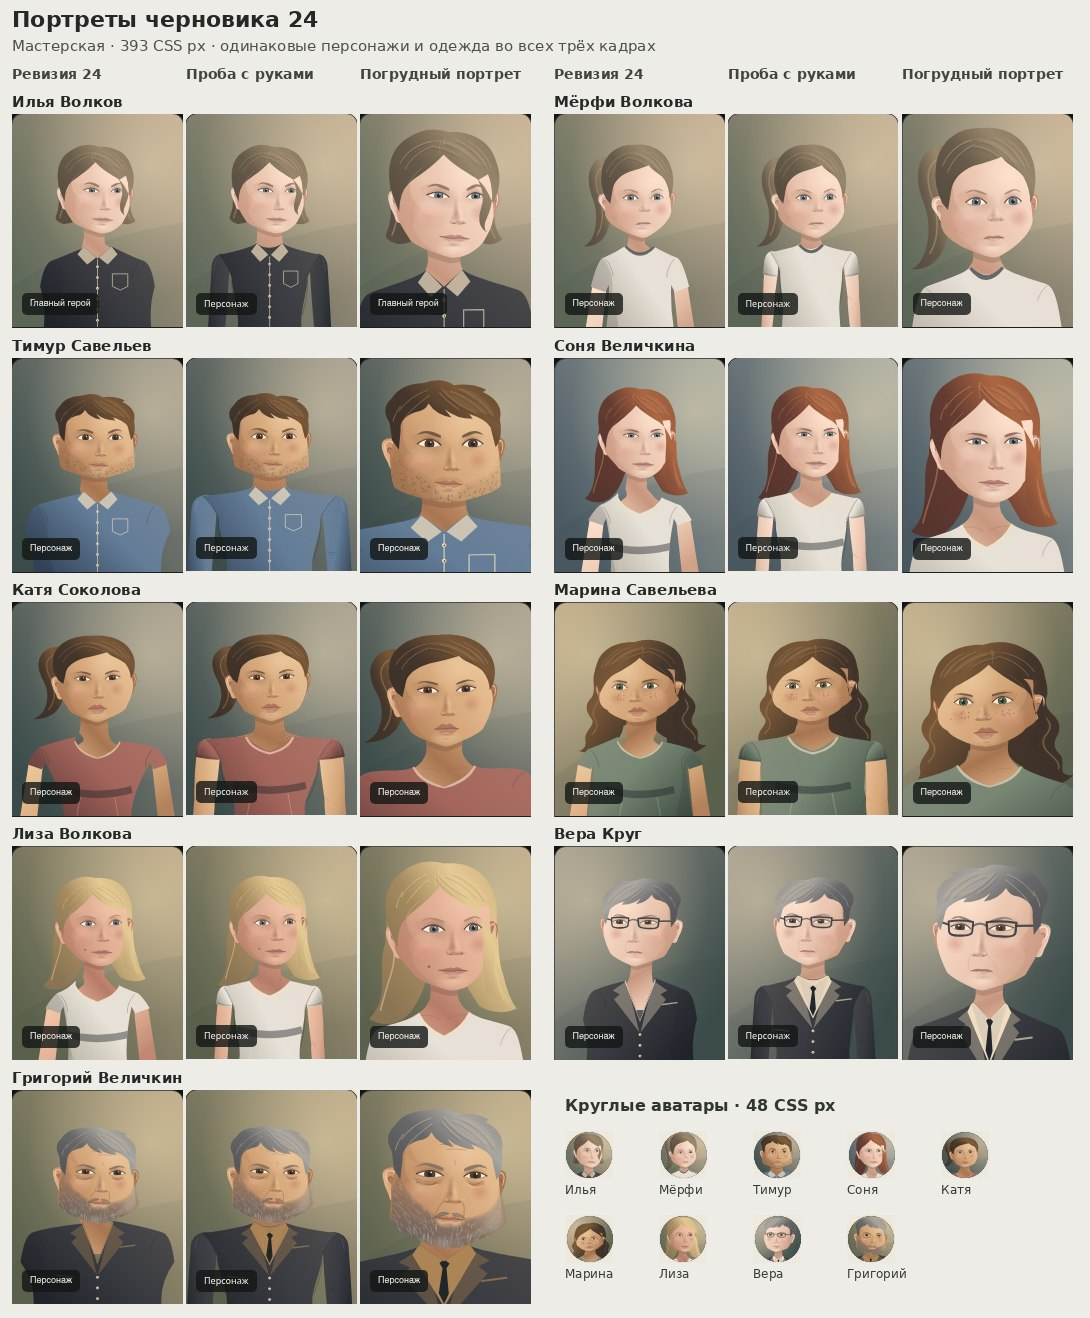
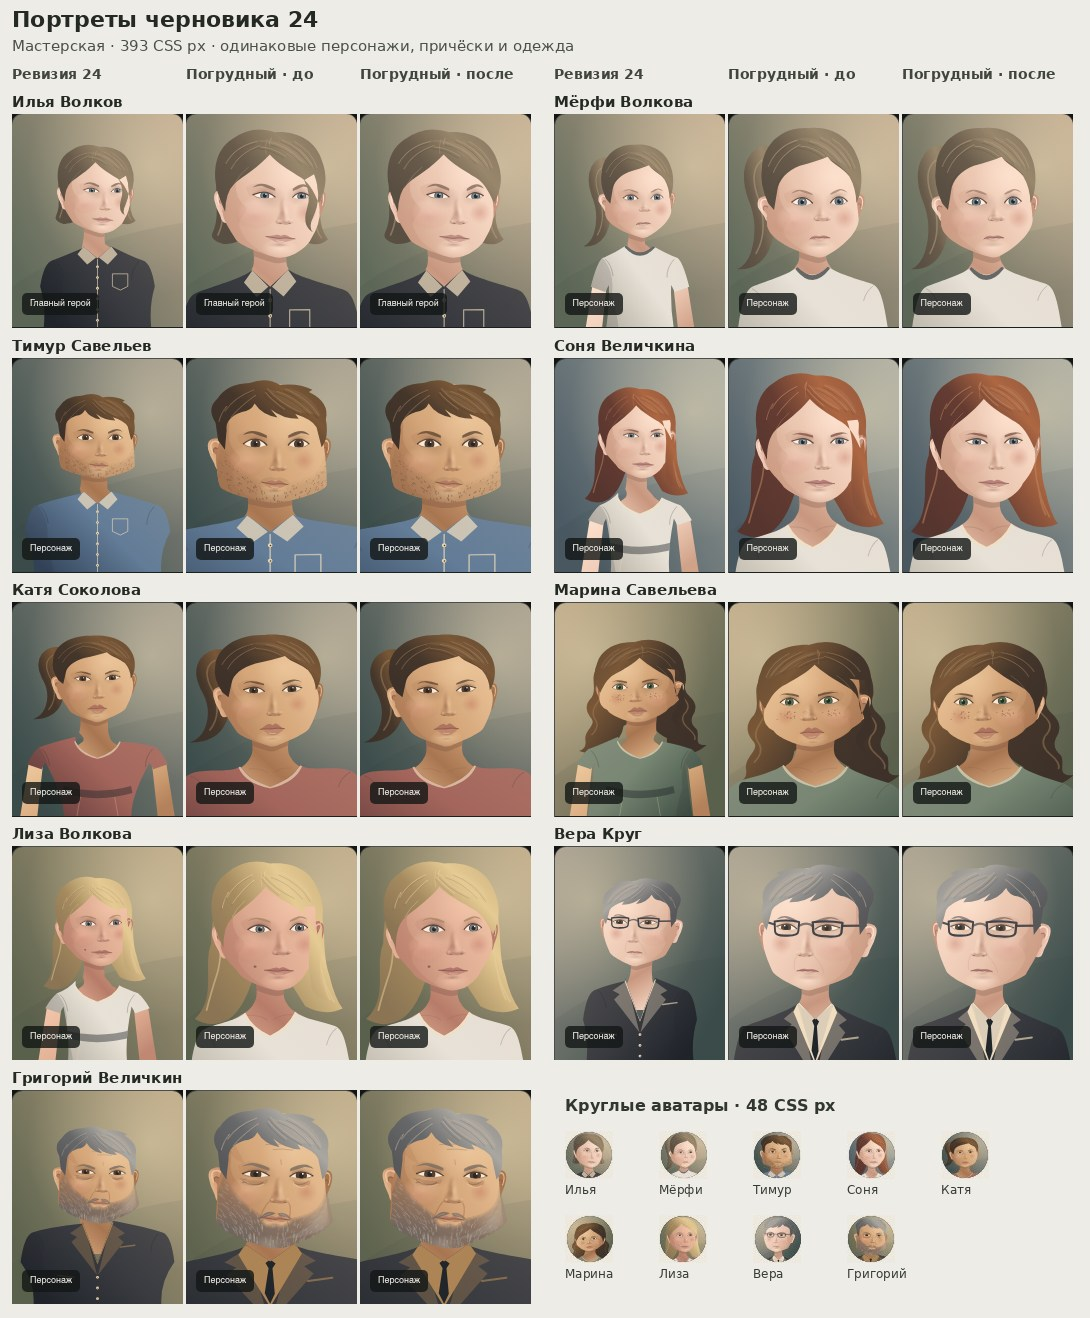
Fit fringe and side locks around the posed face and inspect complete mobile portraits

diff --git a/frontend/src/workshop/portraitFigureHair.ts b/frontend/src/workshop/portraitFigureHair.ts
@@ -178,6 +178,20 @@ const croppedCuts: Partial<Record<HairStyle, Partial<Cut>>> = {
  bun:{back:'M31-65Q49-90 72-79Q95-71 85-44Q78-27 54-32Z',backLines:'M49-70q17-12 28 3m-25 9q20-10 26 2'},
  curly:{front:'M-61 7Q-75 8-71-9Q-87-12-77-31Q-88-43-74-56Q-77-73-58-76Q-56-93-39-88Q-31-106-14-96Q-2-110 14-98Q33-108 44-95Q64-97 68-79Q87-78 80-61Q99-53 87-37Q94-19 76-14Q78 2 62 9Q57 18 52 11L50-4Q35-1 37-16Q22-13 20-26Q8-17 2-29Q-12-16-23-27Q-32-12-44-20Q-44-4-55-7Z'},
 };
+// The sweeping bob turns around the temple before descending. The stepped
+// sidelocks of the hime cut keep their blunt ends lateral to the eye sockets.
+// Keep the framing lengths of these styles between ear and cheek. Only
+// their crown and fringe sit in front of the face. The two contours meet at
+// the temple, so the visible cheek never becomes an island inside a lock.
+const templeFront:Partial<Record<HairStyle,string>>={
+  medium:curtains, long:curtains, wavy:curtains, bob:curtains, locs:curtains,
+  asym_bob:'M-63 9Q-76-6-70-46Q-66-82-35-92Q-6-105 24-91Q67-86 70-50Q75-23 60 0L53-13 49-36Q34-48 21-64C8-46-19-39-39-27Q-57-17-63 9Z',
+  blunt_long:'M-65 9Q-71-1-68-42Q-65-82-26-92Q4-101 33-89Q70-78 73-38Q74-14 62 11L55-25Q21-19 6-22L3-27 1-22Q-27-19-50-25Z',
+  hime:'M-64 9L-68-38Q-65-79-32-90Q0-102 26-91Q66-82 70-48Q75-18 61 12L52-25Q29-31 19-52Q4-32-19-30L-32-29-31-35Q-46-29-53-23Z',
+};
+// The side panels of these cuts fall in front of the ears. Shoulder-length
+// and loose long cuts already carry their entire side length in the rear mass.
+const sidePanels=new Set<HairStyle>(['bob','asym_bob','blunt_long','hime','locs']);
 // Extents of cuts that rise above or extend well outside the fitted skull,
 // in the same 61 × 87 reference space as the locks.
 const extent: Partial<Record<HairStyle, readonly [number,number]>> = {
@@ -196,6 +210,7 @@ export function figureHair(
   light: string,
   dark: string,
   fit?: {infant: boolean; part: number},
+  outerEye?: number,
 ) {
   const coated = style === 'ponytail' || style === 'braid' || style === 'bun';
   const parted =
@@ -207,18 +222,41 @@ export function figureHair(
       : '';
   if (fit?.infant && (style === 'buzz' || style === 'short')) {
     const wisps = 'M-40-61Q-32-80-13-83Q-17-89-10-92Q-9-85-2-83Q13-85 26-74 M-27-73q10-10 22-8m-9 5q12-3 23 3';
-    return {back:'',front:`<g transform="scale(${temple/61} ${-crown/87})">${line(wisps,dark,1.65,.62)}</g>`};
+    return {back:'',side:'',front:`<g transform="scale(${temple/61} ${-crown/87})">${line(wisps,dark,1.65,.62)}</g>`};
   }
-  const cut = fit ? {...cuts[style], ...croppedCuts[style]} : cuts[style],
-    wrap = (s: string) => `<g transform="scale(${(temple + 1) / 61} ${-crown / 87})">${s}</g>`;
+  const cut = fit ? {...cuts[style], ...croppedCuts[style]} : cuts[style];
+  const corrected=outerEye!==undefined;
+  // The visible temple edge in these paths begins 52 units from the part.
+  // Size both masses on the same skull, allowing room for the outer canthus.
+  const width=Math.max((temple+1)/61, (outerEye??0)/52);
+  const wrap=(art:string)=>`<g transform="scale(${width} ${-crown/87})">${art}</g>`;
+  // Medium, long and wavy hair already have side lengths in their rear mass.
+  // Their extra foreground ribbons ran across the far orbit. Keep the parted
+  // crown in front and let the cheek and ear occlude the lengths naturally.
+  const front=corrected ? templeFront[style]??cut.front : cut.front;
+  // Closed locks were authored independently and can wind in opposite
+  // directions. A compound nonzero path subtracts those overlaps. A clip
+  // with separate silhouettes is their union, for both pigment and lighting.
+  const pieces=corrected ? front.match(/M[^M]*/g) || [] : [front];
+  const outline=pieces.map(d=>`<path d="${d}"/>`).join('');
+  const rearLines=line(cut.backLines || '',light,2.3,.5);
+  const rearDetail=corrected && cut.backLines
+    ? `<defs><clipPath id="rearLocks">${(cut.back?.match(/M[^M]*/g)||[]).map(d=>`<path d="${d}"/>`).join('')}</clipPath></defs><g clip-path="url(#rearLocks)">${rearLines}</g>`
+    : rearLines;
+  const side=corrected && sidePanels.has(style)
+    ? wrap((cut.front.match(/M[^M]*/g)||[]).map(d=>path(d,'url(#hairMass)')).join(''))
+    : '';
   return {
+    side,
     back: cut.back
-      ? wrap(path(cut.back, 'url(#hairMass)') + line(cut.backLines || '', light, 2.3, 0.5))
+      ? wrap(path(cut.back, 'url(#hairMass)') + rearDetail)
       : '',
-    front: cut.front
+    front: front
       ? wrap(
-          `<defs><clipPath id="locks"><path d="${cut.front}"/></clipPath></defs>` +
-            path(cut.front, 'url(#hairMass)') +
+          `<defs><clipPath id="locks">${outline}</clipPath></defs>` +
+            (corrected && pieces.length>1
+              ? '<rect x="-130" y="-140" width="260" height="280" fill="url(#hairMass)" clip-path="url(#locks)"/>'
+              : path(front, 'url(#hairMass)')) +
             `<g clip-path="url(#locks)">` +
             path(cut.shine || '', light, 0.22) +
             line(cut.strokes || '', light, 1.35, 0.58) +

diff --git a/frontend/src/workshop/portraitFigure.ts b/frontend/src/workshop/portraitFigure.ts
@@ -567,6 +567,13 @@ function renderHead(p: Human, h: Head, paint: Paint, hairstyle: HairStyle) {
   const ink = tone(skin[2], '#4b3338', 0.61);
   const styleEye = p.eye_shape || features.eye_shape[Math.floor(h.v(7) * 2.99)];
   const styleLip = p.lip_shape || features.lip_shape[Math.floor(h.v(11) * 2.99)];
+  const orbits = p.eye_revision === 2 ? orbitalPair(h) : undefined;
+  const nearEye = orbits?.near.x ?? (a + h.eyeSpacing + 3),
+    farEye = orbits?.far.x ?? (a - h.eyeSpacing * 0.87);
+  const outerEye=Math.max(
+    Math.abs(farEye)+(orbits ? orbits.halfWidth*orbits.far.widthScale : 16),
+    Math.abs(nearEye)+(orbits ? orbits.halfWidth*orbits.near.widthScale : 17),
+  )+4;
   const locks = figureHair(
     hairstyle,
     t,
@@ -574,10 +581,8 @@ function renderHead(p: Human, h: Head, paint: Paint, hairstyle: HairStyle) {
     tone(hair[0], '#f4d3a5', 0.32),
     tone(hair[1], '#201a21', 0.38),
     h.refined ? { infant: h.infant, part: h.v(6) } : undefined,
+    p.body_revision===3 ? outerEye : undefined,
   );
-  const orbits = p.eye_revision === 2 ? orbitalPair(h) : undefined;
-  const nearEye = orbits?.near.x ?? (a + h.eyeSpacing + 3),
-    farEye = orbits?.far.x ?? (a - h.eyeSpacing * 0.87);
   const ears = (near: boolean) => {
     const size = (near ? 1 : 0.67) * (h.elder ? 1.06 : 1);
     const px = near ? earX : -t + 1,
@@ -658,11 +663,11 @@ function renderHead(p: Human, h: Head, paint: Paint, hairstyle: HairStyle) {
     ? ellipse(earX + 3, earY + earH - 2, 2.7, 3, '#d9b879') +
       (p.accessory === 3 ? line(`M${earX + 3} ${earY + earH}l.4 9`, '#dec892', 1.7) : '')
     : '';
+  const revisedLayers=p.body_revision===3;
   return {
-    back: locks.back,
+    back:locks.back,
     head:
-      ears(false) +
-      ears(true) +
+      ears(false) + ears(true) + (revisedLayers ? earJewels : '') + locks.side +
       structure +
       ageVolume +
       cheekFold +
@@ -674,8 +679,7 @@ function renderHead(p: Human, h: Head, paint: Paint, hairstyle: HairStyle) {
       '</g>' +
       whiskers(h, p.facial_hair, paint) +
       spectacles(h,p.eyewear,nearEye,farEye,paint) +
-      locks.front +
-      earJewels,
+      locks.front + (revisedLayers?'':earJewels),
   };
 }
 
@@ -737,14 +741,14 @@ export function portraitFigure(
   const torso = h.infant || h.child ? 'neutral' : p.body_frame;
   const shoulders = bodyScale * (torso === 'male' ? 1.12 : torso === 'female' ? 0.89 : 1);
   const neckLine = `M${center - neck} 253 Q${center - neck + 3} 287 ${center - neck - 2} 304 Q${200 - 29 * shoulders} 316 ${200 - 35 * shoulders} 323 L${200 - 63 * shoulders} 342 L${200 - 54 * shoulders} 376H${200 + 54 * shoulders}L${200 + 63 * shoulders} 342 L${200 + 35 * shoulders} 323 Q${200 + 29 * shoulders} 316 ${center + neck} 305 Q${center + neck - 3} 288 ${center + neck + 3} 250Z`;
-  const body = p.body_revision===2 ? '' : h.refined
+  const body = p.body_revision ? '' : h.refined
     ? garmentLayer(garment, torso, false, null, { build: p.body_build || 'average', youth: h.youth, collarY, turn },paint.accent)
     : `<g transform="translate(200 ${317 + collarY}) skewX(${2.8 * turn}) scale(${bodyScale} 1) translate(-200 -317)">${garmentLayer(garment, torso, false, null, undefined, paint.accent)}</g>`;
   const chain = [1, 2, 5, 7].includes(p.accessory)
     ? line('M172 310Q195 357 225 311', '#b29769', 1.6, 0.92) +
       (p.accessory === 1 ? '' : ellipse(199, 337, 3, 5, '#d7b476'))
     : '';
-  const fitted = p.body_revision===2 ? portraitBust({frame:torso,build:p.body_build||'average',
+  const fitted = p.body_revision ? portraitBust({frame:torso,build:p.body_build||'average',
     youth:h.youth,elderly:h.elder,chinY:eyeY+h.depth*scale,halfHead:h.cheek*scale,
     center:headX+turn*2,turn},garment,paint.accent) : null;
   const neckSurface = fitted ? `<g transform="${fitted.transform}">${fitted.neck}</g>` : path(neckLine,'url(#neck)');

diff --git a/frontend/src/WorldWorkshop.tsx b/frontend/src/WorldWorkshop.tsx
@@ -407,13 +407,13 @@ export function WorldWorkshop({ prefs, apiKey, onWorld, onGame, onBack, onSettin
     const characters = (state?.characters || []).map(c=>({...c,...draft?.portraits?.[c.id]}));
     const activeLayer = author && figurePreview?.workspace===id && figurePreview?.revision===draft?.revision ? figurePreview?.layer : undefined;
     const figureEdits = [
-      {layer:'eyes',eligible:'can_update_eyes',field:'eye_revision',tryLabel:'Примерить новую посадку глаз',saveLabel:'Сохранить посадку глаз'},
-      {layer:'body',eligible:'can_update_body',field:'body_revision',tryLabel:'Примерить погрудные портреты',saveLabel:'Сохранить погрудные портреты'},
+      {layer:'eyes',eligible:'can_update_eyes',field:'eye_revision',revision:2,tryLabel:'Примерить новую посадку глаз',saveLabel:'Сохранить посадку глаз'},
+      {layer:'body',eligible:'can_update_body',field:'body_revision',revision:3,tryLabel:'Примерить погрудные портреты',saveLabel:'Сохранить погрудные портреты'},
     ] as const;
     const previewEdit = figureEdits.find(edit=>edit.layer===activeLayer);
     const collectionCards = previewEdit ? characters.map(c=>{
         const art=c.procedural_portrait;
-        return c[previewEdit.eligible] && art?.version===3 ? {...c,procedural_portrait:{...art,[previewEdit.field]:2 as const}} : c;
+        return c[previewEdit.eligible] && art?.version===3 ? {...c,procedural_portrait:{...art,[previewEdit.field]:previewEdit.revision}} : c;
     }) : characters;
     const actor = state?.controlled_actor_id;
     const resolve = resolver(state || {characters:[],locations:[],world:{}});

diff --git a/frontend/src/workshop/proceduralPortrait.ts b/frontend/src/workshop/proceduralPortrait.ts
@@ -5,7 +5,7 @@ import {portraitFigure,type FeatureChoices} from './portraitFigure';
 import {portraitFace} from './portraitFace';
 import {coiffure,garmentLayer} from './portraitWardrobe';
 export type Styles = typeof catalog.styles;
-export type Layers = FeatureChoices & {face_revision?:2|3|4;eye_revision?:2;cheek_revision?:2;nose_revision?:2;body_revision?:2;accent_color?:number;eyewear?:keyof typeof catalog.features.eyewear;face_detail?:keyof typeof catalog.features.face_detail;body_build?:keyof typeof catalog.features.body_build;base_version?:1|2; hairstyle?:keyof Styles['hair']|null; garment?:keyof Styles['clothing']|null; visage?:keyof Styles['face']|null; skin_swatch?:boolean;eye_swatch?:boolean};
+export type Layers = FeatureChoices & {face_revision?:2|3|4;eye_revision?:2;cheek_revision?:2;nose_revision?:2;body_revision?:2|3;accent_color?:number;eyewear?:keyof typeof catalog.features.eyewear;face_detail?:keyof typeof catalog.features.face_detail;body_build?:keyof typeof catalog.features.body_build;base_version?:1|2; hairstyle?:keyof Styles['hair']|null; garment?:keyof Styles['clothing']|null; visage?:keyof Styles['face']|null; skin_swatch?:boolean;eye_swatch?:boolean};
 import parts from './portraitParts.json';
 import {beardLayer, dressedBust, bodyFrames, facialHairStyles, type BodyFrame, type FacialHair} from './portraitAnatomy';
 import {type Illustration,validIllustration} from "./portraitV4/illustration";

diff --git a/frontend/src/workshop/ProceduralPortraitEditor.tsx b/frontend/src/workshop/ProceduralPortraitEditor.tsx
@@ -103,11 +103,12 @@ export function ProceduralPortraitEditor({descriptor,appearance,ageReference,ana
  {Object.values(catalog.styles[colorField==='accent_color'?'clothing_color':colorField]).map((label,i)=><button key={label} type="button" title={label} aria-label={label} aria-pressed={modern()[colorField]===i}
  onClick={()=>change({...modern(),form:'human',[colorField]:i,...(colorField==='skin'?{skin_swatch:true}:colorField==='eyes'?{eye_swatch:true}:colorField==='accent_color'&&!(value.version===3&&(value.face_revision===3||value.face_revision===4))?{face_revision:4,eye_revision:2}:{})})}><i style={{backgroundColor:swatches[colorField][i]}}/>{label}</button>)}</div></>}
  {section==='details'&&<>
+ {value.version===3&&value.body_revision===2&&<Button variant="outline" onClick={()=>change({...value,body_revision:3})}>Примерить исправленную посадку волос</Button>}
  {value.version===3&&(value.face_revision===3||value.face_revision===4)&&
    <Button variant="outline" onClick={()=>{
      const next={...value};
      if(next.body_revision) delete next.body_revision;
-     else next.body_revision=2;
+     else next.body_revision=3;
      change(next);
    }}>{value.body_revision?'Вернуть прежнюю композицию':'Примерить погрудный портрет'}</Button>}
  {(['body_build','eyewear','face_detail'] as const).map(key=>{

diff --git a/frontend/e2e/portrait269.spec.ts b/frontend/e2e/portrait269.spec.ts
@@ -1,6 +1,7 @@
 import { test, expect } from '@playwright/test';
 import { readFileSync, writeFileSync } from 'node:fs';
 import { nav } from './navigation';
+import { inspectHair } from './portrait-hair-review.mjs';
 import { authorView, workshopNav } from './workshop-navigation';
 import { chooseOption } from './choice-navigation';
 
@@ -160,6 +161,7 @@ test(`previewing the ${layer} keeps the saved cast until explicit confirmation`,
       } finally { svg.remove(); }
     }));
     expect(bustFits).toBe(true);
+    expect(await grid.locator('.ww-card-art img').evaluateAll(inspectHair)).toEqual([]);
   }
   expect(await pictures()).not.toEqual(initial);
   expect((await saved()).revision).toBe(before.revision);
@@ -170,7 +172,7 @@ test(`previewing the ${layer} keeps the saved cast until explicit confirmation`,
   await expect(button(previewLabel)).toHaveCount(0);
   const after=await saved();
   for(const card of included) {
-    expect(after.portraits[card.id].procedural_portrait).toEqual({...before.portraits[card.id].procedural_portrait,[field]:2});
+    expect(after.portraits[card.id].procedural_portrait).toEqual({...before.portraits[card.id].procedural_portrait,[field]:bust?3:2});
   }
 
   const card=included[0], approved=after.portraits[card.id].procedural_portrait;

diff --git a/frontend/src/Portrait.tsx b/frontend/src/Portrait.tsx
@@ -36,7 +36,7 @@ export function CharacterAvatar({subject,saveId,workspaceId,author=false,onClick
  const style={'--avatar-size':typeof size==='number'?`${size}px`:size} as CSSProperties;
  const descriptor=subject.procedural_portrait;
  const generated=hasImage?null:proceduralPortrait(descriptor);
- const faceCrop=framing==='avatar'&&(descriptor?.version===4||descriptor?.version===3&&descriptor.body_revision!==2&&(descriptor.face_revision===3||descriptor.face_revision===4));
+ const faceCrop=framing==='avatar'&&(descriptor?.version===4||descriptor?.version===3&&!descriptor.body_revision&&(descriptor.face_revision===3||descriptor.face_revision===4));
  const content=hasImage?<img key={imageKey} alt="" loading="lazy" decoding="async" src={portraitUrl(saveId,subject.id,p!,workspaceId,author)} style={cropStyle(p!)} onError={()=>setFailedKey(imageKey)}/>:generated?<img className={faceCrop?"procedural-portrait face-framing":"procedural-portrait"} src={generated} alt="" loading="lazy" decoding="async"/>:<>
   <svg viewBox="0 0 100 100" aria-hidden="true" data-silhouette={silhouette}>
    {silhouette==='female'?<>

diff --git a/tests/test_portrait269.py b/tests/test_portrait269.py
@@ -19,7 +19,8 @@ def test_new_classic_faces_have_independent_persisted_features():
         assert {p[field] for p in cast} == set(options)
         assert set(input_schema()['properties'][field]['enum']) == set(options)
     for p in cast:
-        assert p['eye_revision'] == p['cheek_revision'] == p['nose_revision'] == p['body_revision'] == 2
+        assert p['eye_revision'] == p['cheek_revision'] == p['nose_revision'] == 2
+        assert p['body_revision'] == 3
         assert (p['visage'], p['hairstyle'], p['garment'], p['face_revision']) == ('broad','parted','shirt',4)
     assert cast[0] == default_descriptor('0','adult',hints=hints,version=3,world_id='same')
     old = deepcopy(cast[0])
@@ -111,6 +112,8 @@ def test_figure_update_preserves_other_traits_photos_and_old_versions(api, layer
     for i, cid in enumerate(ids):
         art = default_descriptor(cid, 'adult', version=3, world_id='previous')
         art.pop(field)
+        if field == 'body_revision' and i == 1:
+            art[field] = 2
         art['face_revision'] = 3 if i == 0 else 2 if i == 2 else 4
         actors[cid].update(procedural_portrait=art, portrait_mode='procedural')
     url, draft = create(client, state)
@@ -127,7 +130,7 @@ def test_figure_update_preserves_other_traits_photos_and_old_versions(api, layer
     assert update(before['revision']).status_code == 409
     after=client.get(url+'?author=true').json()
     for i,cid in enumerate(ids):
-        assert art(after,cid)==({**art(before,cid), field:2} if i<2 else art(before,cid))
+        assert art(after,cid)==({**art(before,cid), field:3 if layer=='body' else 2} if i<2 else art(before,cid))
         assert after['state']['world']['characters'][cid]['portrait_mode']==before['state']['world']['characters'][cid]['portrait_mode']
     assert update(after['revision']).json() == {'updated':0}
     restored=client.patch(url,json=dict(revision=after['revision'],operation='restore',source_id=before['version_id']))

diff --git a/backend/services/draft_portraits.py b/backend/services/draft_portraits.py
@@ -132,7 +132,7 @@ def default_descriptor(cid,stage,actor=None,hints=None,age_style=None, *, versio
         if eligible and 'facial_hair' not in authored:
             style = pick('beard', (0, 0, 0, 1, 1, 2, 3, 4, 5, 6))
         return ProceduralPortraitV3(**common, **choices, version=3, hairstyle=hair, garment=garment,
-            visage=face, face_revision=4, eye_revision=2, cheek_revision=2, nose_revision=2, body_revision=2, skin_swatch=True,eye_swatch=True,
+            visage=face, face_revision=4, eye_revision=2, cheek_revision=2, nose_revision=2, body_revision=3, skin_swatch=True,eye_swatch=True,
             body_frame=body_frame(actor) if form=='human' else 'neutral',
             facial_hair=STYLES['facial_hair'][style] if eligible else 'clean_shaven').model_dump()
     return ProceduralPortraitV2(**common, **choices, version=2,
@@ -236,7 +236,8 @@ def reader_card(state,cid):
 def can_update_figure_layer(actor, field):
     art = actor.get('procedural_portrait') or {}
     return (art.get('version') == 3 and art.get('face_revision') in (3, 4)
-            and art.get(field) is None and art.get('form') == 'human'
+            and (art.get(field) is None or (field == 'body_revision' and art[field] == 2))
+            and art.get('form') == 'human'
             and not any(not image.get('deleted') for image in actor.get('portraits', [])))
 
 
@@ -376,7 +377,7 @@ def update_figure_layer(repo, wid, revision, field):
         count = 0
         for actor in state['world']['characters'].values():
             if can_update_figure_layer(actor, field):
-                actor['procedural_portrait'][field] = 2
+                actor['procedural_portrait'][field] = 3 if field == 'body_revision' else 2
                 count += 1
         if count:
             write_portrait_edit(repo, db, wid, state, record)

diff --git a/devtools/issue269/visual_cases.py b/devtools/issue269/visual_cases.py
@@ -44,6 +44,19 @@ def cases():
             **base, 'body_build': build, 'garment': probes[(i+j) % len(probes)],
             'visual_age': age, 'stage': age if i < 3 else 'adult'}}
         for i, age in enumerate(ages) for j, build in enumerate(CATALOG['features']['body_build'])]
+    # Both turns for every age. Change one seed byte, leaving the rest of
+    # the person's landmarks alone. Each sheet holds that sitter fixed.
+    faces = list(CATALOG['styles']['face'])
+    for i, age in enumerate(ages):
+        for mirrored in range(2):
+            sitter = population[i * 6 + i]['portrait']
+            yaw = '00' if mirrored == 0 else 'ff'
+            seed = sitter['seed'][:28] + yaw + sitter['seed'][30:]
+            person = {**sitter, 'seed': seed, 'visage': faces[i * 2 + mirrored],
+                      'skin': (i + mirrored) % 7, 'body_revision': 3}
+            groups[f'hair_{age}_{mirrored}'] = [
+                {'label': label, 'portrait': {**person, 'hairstyle': style}}
+                for style, label in CATALOG['styles']['hair'].items()]
     # Each row keeps the same person, pose, tone and eyes across all six noses.
     groups['nose_matrix'] = []
     groups['nose_previous'] = []

diff --git a/backend/runtime_v3/models.py b/backend/runtime_v3/models.py
@@ -496,7 +496,7 @@ class ProceduralPortraitV3(ProceduralPortraitV2):
     eye_revision: Literal[2] | None = None
     cheek_revision: Literal[2] | None = None
     nose_revision: Literal[2] | None = None
-    body_revision: Literal[2] | None = None
+    body_revision: Literal[2, 3] | None = None
     hair_color: int | None = Field(default=None, ge=0, le=15)
     clothing_color: int | None = Field(default=None, ge=0, le=19)
     accent_color: int | None = Field(default=None, ge=0, le=19)
